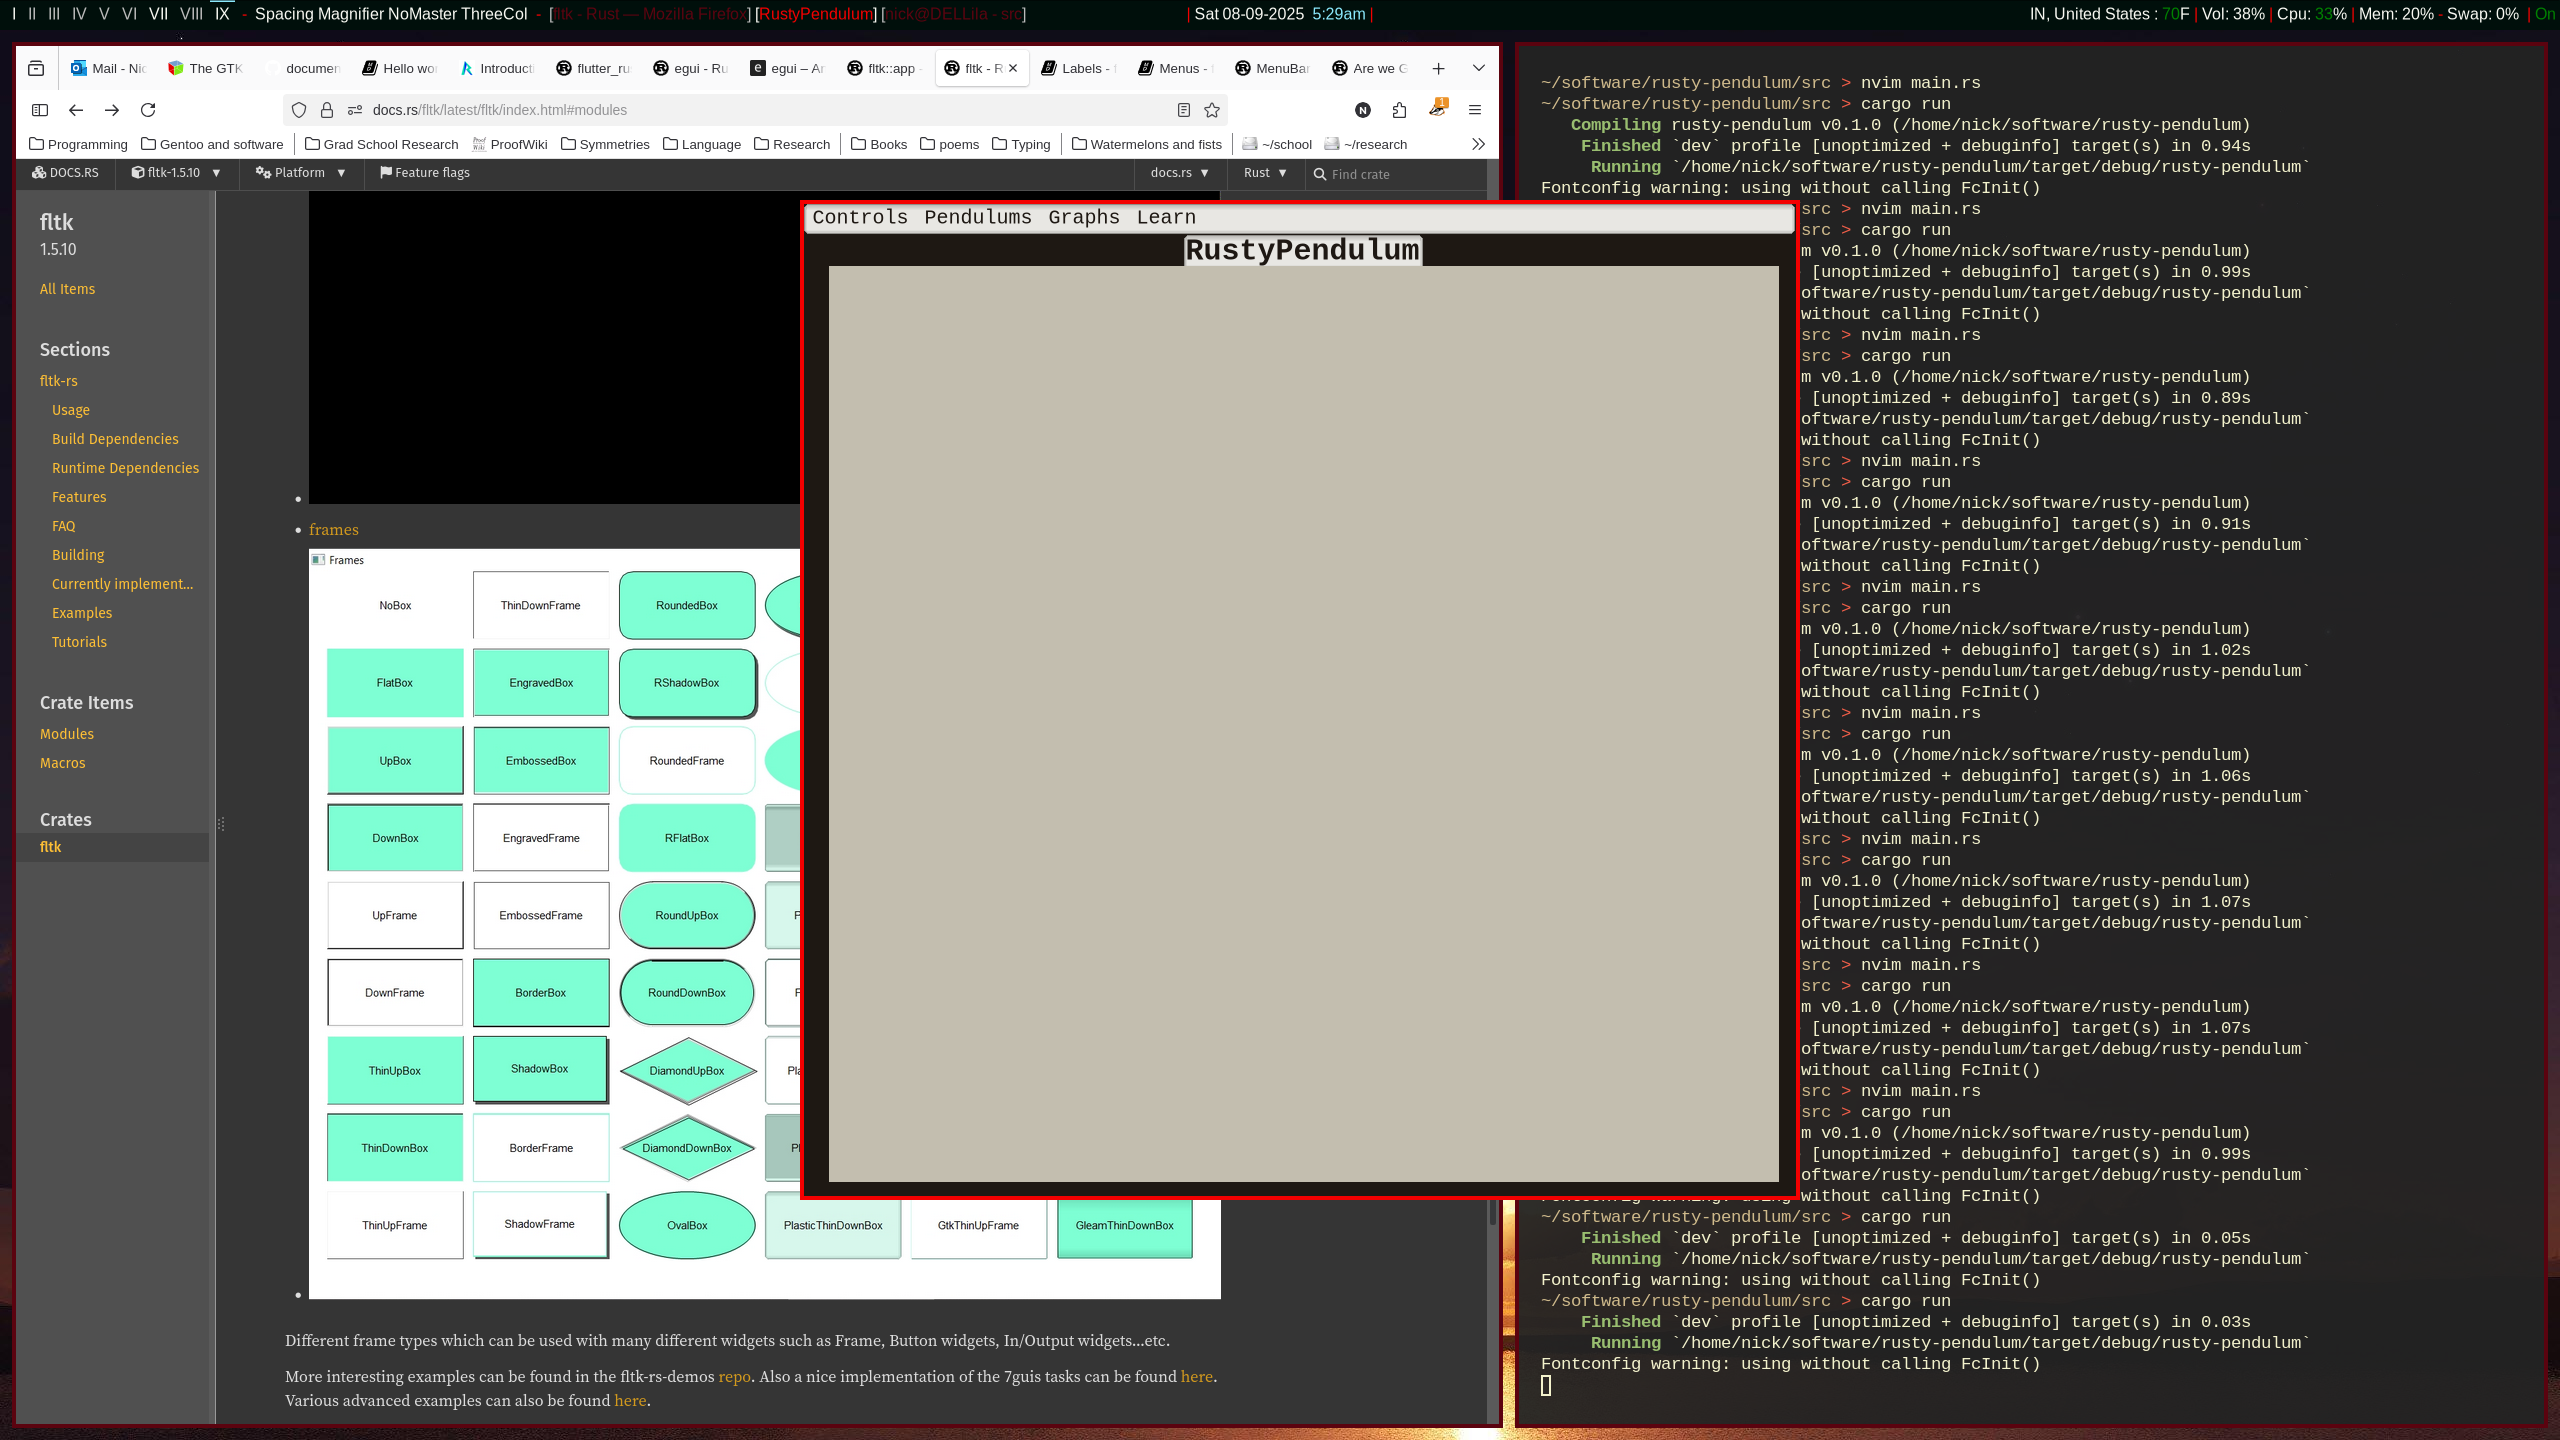
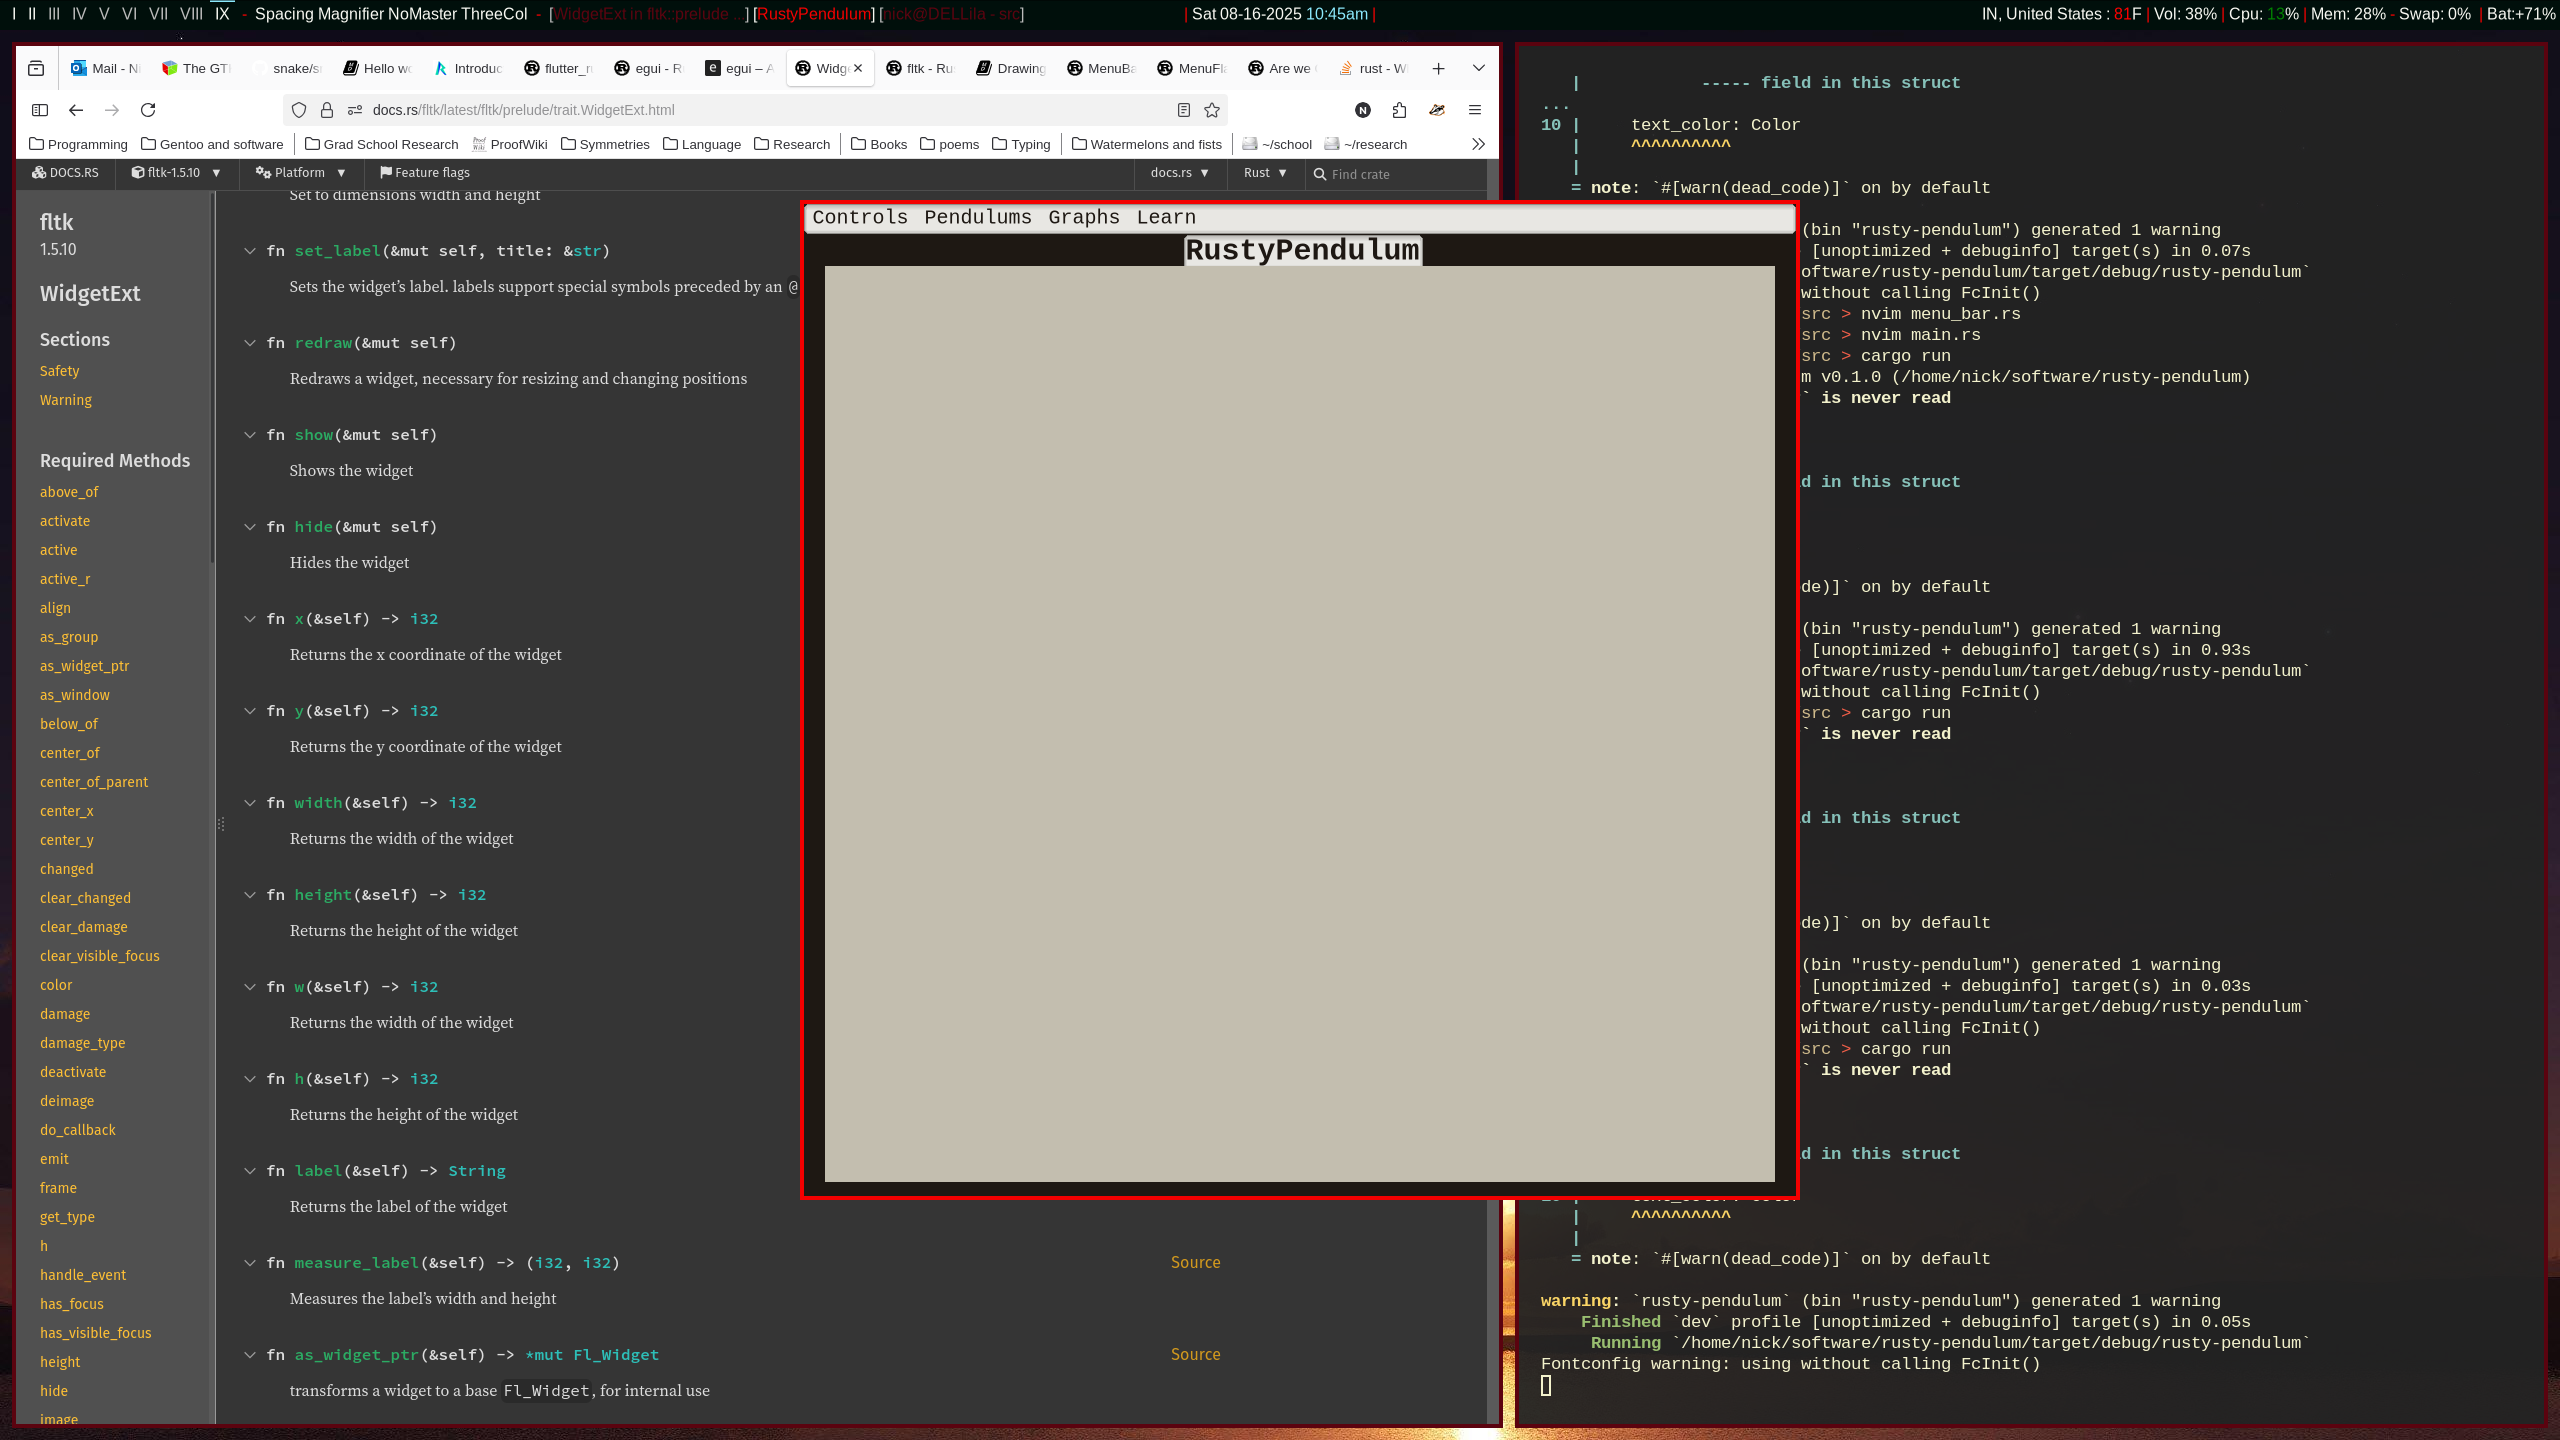
refactored existing code to be better organized and removed a couple menu options

diff --git a/src/main.rs b/src/main.rs
@@ -2,24 +2,12 @@ use fltk::prelude::*;
 use fltk::window;
 use fltk::app;
 use fltk::frame::Frame;
-use fltk::menu;
 use fltk::enums::*;
 
-//const APP_ID: &str = "org.physics_sim.rusty_pendulum";
+mod menu_bar;
+mod world;
 
-fn menu_cb(m: &mut impl MenuExt) {
-    if let Some(choice) = m.choice() {
-        match choice.as_str() {
-            //TODO: Do stuff
-            "Play\t" => {},
-            "Pause\t" => {},
-            "Reset\t" => {},
-            "Quit\t" => { app::quit(); },
-            "Double pendulum\t" => {},
-            _ => {}
-        }
-    }
-}
+//const APP_ID: &str = "org.physics_sim.rusty_pendulum";
 
 fn main() -> Result<(), String> {
     // TODO: Use different window proportions
@@ -50,113 +38,14 @@ fn main() -> Result<(), String> {
     title.center_x(&wnd);
 
     // Create a menubar
-    let mut menubar = menu::MenuBar::default().with_size(wnd_width - 9, menu_bar_height);
-    menubar.set_text_font(Font::Screen);
-    menubar.set_text_size(20);
-    menubar.set_text_color(dark_brown);
-    menubar.set_frame(FrameType::PlasticThinDownBox);
-    menubar.set_color(graph_paper);
-    menubar.set_selection_color(rust_color);
-    menubar.add(
-        "Controls/Play\t",
-        Shortcut::None,
-        menu::MenuFlag::Normal,
-        menu_cb
-    );
-    menubar.add(
-        "Controls/Pause\t",
-        Shortcut::None,
-        menu::MenuFlag::Normal,
-        menu_cb
-    );
-    menubar.add(
-        "Controls/Reset\t",
-        Shortcut::None,
-        menu::MenuFlag::MenuDivider,
-        menu_cb
-    );
-    menubar.add(
-        "Controls/Quit\t",
-        Shortcut::None,
-        menu::MenuFlag::Normal,
-        menu_cb
-    );
-    // Link single and double so that they can't be used together. 
-    // Clicking one unclicks the other
-    // Or use one button that toggles
-    menubar.add(
-        "Pendulums/Single pendulum\t",
-        Shortcut::None,
-        menu::MenuFlag::Toggle,
-        menu_cb
-    );
-    menubar.add(
-        "Pendulums/Double pendulum\t",
-        Shortcut::None,
-        menu::MenuFlag::Toggle | menu::MenuFlag::MenuDivider,
-        menu_cb
-    );
-    menubar.add(
-        "Pendulums/Small angle approximation\t",
-        Shortcut::None,
-        menu::MenuFlag::Toggle,
-        menu_cb
-    );
-    menubar.add(
-        "Pendulums/Euler method\t",
-        Shortcut::None,
-        menu::MenuFlag::Toggle,
-        menu_cb
-    );
-    menubar.add(
-        "Pendulums/Euler-Cromer method\t",
-        Shortcut::None,
-        menu::MenuFlag::Toggle,
-        menu_cb
-    );
-    menubar.add(
-        "Pendulums/Runge-Kutta method\t",
-        Shortcut::None,
-        menu::MenuFlag::Toggle,
-        menu_cb
-    );
-    menubar.add(
-        "Graphs/Energies\t",
-        Shortcut::None,
-        menu::MenuFlag::Toggle,
-        menu_cb
-    );
-    menubar.add(
-        "Graphs/Velocities\t",
-        Shortcut::None,
-        menu::MenuFlag::Toggle,
-        menu_cb
-    );
-    menubar.add(
-        "Learn/Pendulum problem\t",
-        Shortcut::None,
-        menu::MenuFlag::Normal,
-        menu_cb
-    );
-    menubar.add(
-        "Learn/Pendulum approximations\t",
-        Shortcut::None,
-        menu::MenuFlag::Normal,
-        menu_cb
-    );
-    menubar.add(
-        "Learn/Simulation app\t",
-        Shortcut::None,
-        menu::MenuFlag::Normal,
-        menu_cb
-    );
+    let mut main_menu = menu_bar::TopMenuBar::new(wnd_width - 8, menu_bar_height, 
+                                    graph_paper, dark_brown, rust_color);
+    main_menu.setup();
+
     // Create a window to contain the simulation
-    let mut pendulum_wnd = window::Window::default()
-        .with_size(wnd_width - 50, wnd_height - title_h - menu_bar_height - 20)
-        .with_pos(0, title_h + menu_bar_height - 2);
-    pendulum_wnd.set_color(graph_paper);
-    pendulum_wnd.end();
-    pendulum_wnd.center_x(&wnd);
+    let mut pendulum_world = world::World::new((wnd_width - 50, wnd_height - title_h - menu_bar_height - 20),
+                    graph_paper, dark_brown);
+    pendulum_world.setup(&wnd, title_h + menu_bar_height - 2);
 
     // Window settings details
     wnd.set_color(dark_brown);

diff --git a/src/menu_bar.rs b/src/menu_bar.rs
@@ -1,0 +1,131 @@
+use fltk::prelude::*;
+use fltk::menu;
+use fltk::app;
+use fltk::enums::*;
+
+fn menu_cb(m: &mut impl MenuExt) {
+    if let Some(choice) = m.choice() {
+        match choice.as_str() {
+            // TODO: Do stuff
+            "Play\t" => {},
+            "Pause\t" => {},
+            "Reset\t" => {},
+            "Quit\t" => { app::quit(); },
+            _ => {}
+        }
+    }
+}
+
+pub struct TopMenuBar {
+    menubar_widget: menu::MenuBar,
+    bg_color: Color,
+    text_color: Color,
+    sel_color: Color,
+    //width: i32,
+    //height: i32
+}
+
+impl TopMenuBar {
+    pub fn new(width: i32, height: i32, bg_color: Color, text_color: Color, sel_color: Color) -> Self {
+        let menubar = menu::MenuBar::default().with_size(width, height); 
+        Self {
+            menubar_widget: menubar,
+            bg_color: bg_color,
+            text_color: text_color,
+            sel_color: sel_color,
+            //width: width,
+            //height: height
+        }
+    }
+
+    pub fn setup(&mut self) {
+        self.menubar_widget.set_text_font(Font::Screen);
+        self.menubar_widget.set_text_size(20);
+        self.menubar_widget.set_text_color(self.text_color);
+        self.menubar_widget.set_frame(FrameType::PlasticThinDownBox);
+        self.menubar_widget.set_color(self.bg_color);
+        self.menubar_widget.set_selection_color(self.sel_color);
+        // Control
+        self.menubar_widget.add(
+            "Controls/Play\t",
+            Shortcut::None,
+            menu::MenuFlag::Normal,
+            menu_cb
+        );
+        self.menubar_widget.add(
+            "Controls/Pause\t",
+            Shortcut::None,
+            menu::MenuFlag::Normal,
+            menu_cb
+        );
+        self.menubar_widget.add(
+            "Controls/Reset\t",
+            Shortcut::None,
+            menu::MenuFlag::MenuDivider,
+            menu_cb
+        );
+        self.menubar_widget.add(
+            "Controls/Quit\t",
+            Shortcut::None,
+            menu::MenuFlag::Normal,
+            menu_cb
+        );
+        // Pendulums
+        self.menubar_widget.add(
+            "Pendulums/Small anle approximation\t",
+            Shortcut::None,
+            menu::MenuFlag::Toggle,
+            menu_cb
+        );
+        self.menubar_widget.add(
+            "Pendulums/Euler method\t",
+            Shortcut::None,
+            menu::MenuFlag::Toggle,
+            menu_cb
+        );
+        self.menubar_widget.add(
+            "Pendulums/Euler-Cromer method\t",
+            Shortcut::None,
+            menu::MenuFlag::Toggle,
+            menu_cb
+        );
+        self.menubar_widget.add(
+            "Pendulums/Runge-Kutta method\t",
+            Shortcut::None,
+            menu::MenuFlag::Toggle,
+            menu_cb
+        );
+        // Graphs
+        self.menubar_widget.add(
+            "Graphs/Energies\t",
+            Shortcut::None,
+            menu::MenuFlag::Normal, // maybe Toggle?
+            menu_cb
+        );
+        self.menubar_widget.add(
+            "Graphs/Velocities\t",
+            Shortcut::None,
+            menu::MenuFlag::Normal, // maybe Toggle?
+            menu_cb
+        );
+        // Learn
+        self.menubar_widget.add(
+            "Learn/Pendulum problem\t",
+            Shortcut::None,
+            menu::MenuFlag::Normal, // maybe Toggle?
+            menu_cb
+        );
+        self.menubar_widget.add(
+            "Learn/Pendulum approximations\t",
+            Shortcut::None,
+            menu::MenuFlag::Normal, // maybe Toggle?
+            menu_cb
+        );
+        self.menubar_widget.add(
+            "Learn/Simulation app\t", // Is this menu option even necessary?
+            Shortcut::None,
+            menu::MenuFlag::Normal, // maybe Toggle?
+            menu_cb
+        );
+    }
+}

diff --git a/src/world.rs b/src/world.rs
@@ -1,0 +1,33 @@
+use fltk::prelude::*;
+use fltk::window;
+use fltk::enums::Color;
+
+pub struct World {
+    window: window::Window,
+    size: (i32, i32),
+    pos: (i32, i32),
+    bg_color: Color,
+    text_color: Color
+}
+
+impl World {
+    pub fn new(size: (i32, i32), bg_color: Color, text_color: Color) -> Self {
+        let world_window = window::Window::default()
+            .with_size(size.0, size.1);
+        Self {
+            window: world_window,
+            size: size,
+            pos: (0, 0), // Temporary -> call set_height
+            bg_color: bg_color,
+            text_color: text_color
+        }
+    }
+
+    pub fn setup(&mut self, parent_wnd: &window::Window, y_pos: i32) {
+        self.window.set_color(self.bg_color);
+        let x_pos: i32 = parent_wnd.width()/2 - self.size.0/2 - 4;
+        self.pos = (x_pos, y_pos);
+        self.window.clone().with_pos(x_pos, y_pos);
+        self.window.end();
+    }
+}
